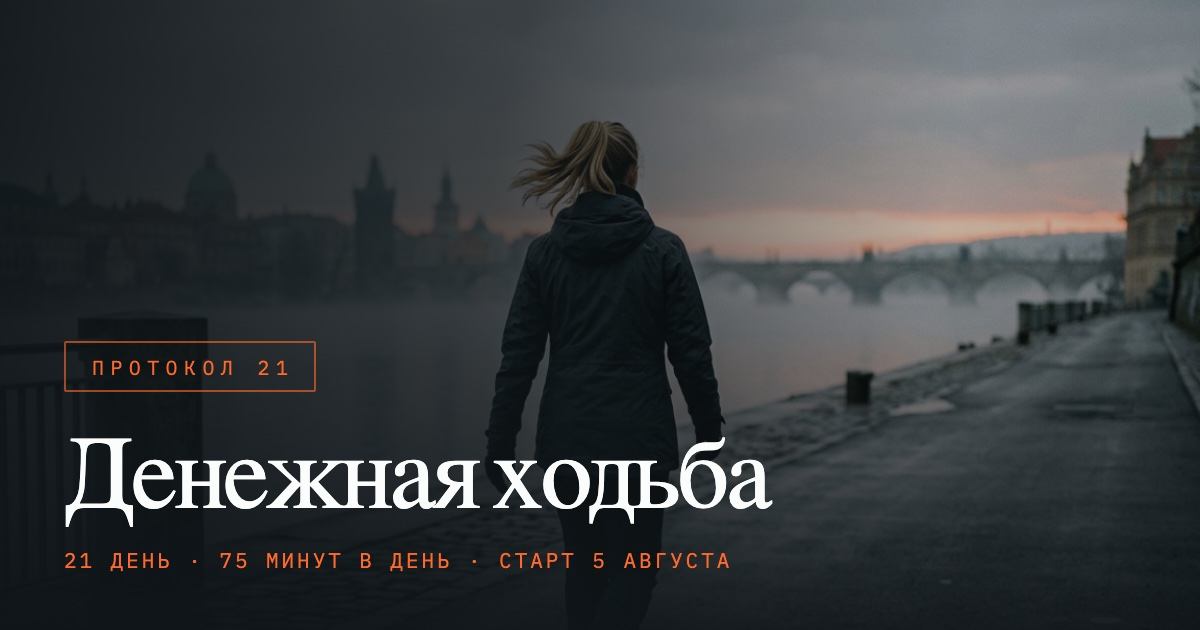
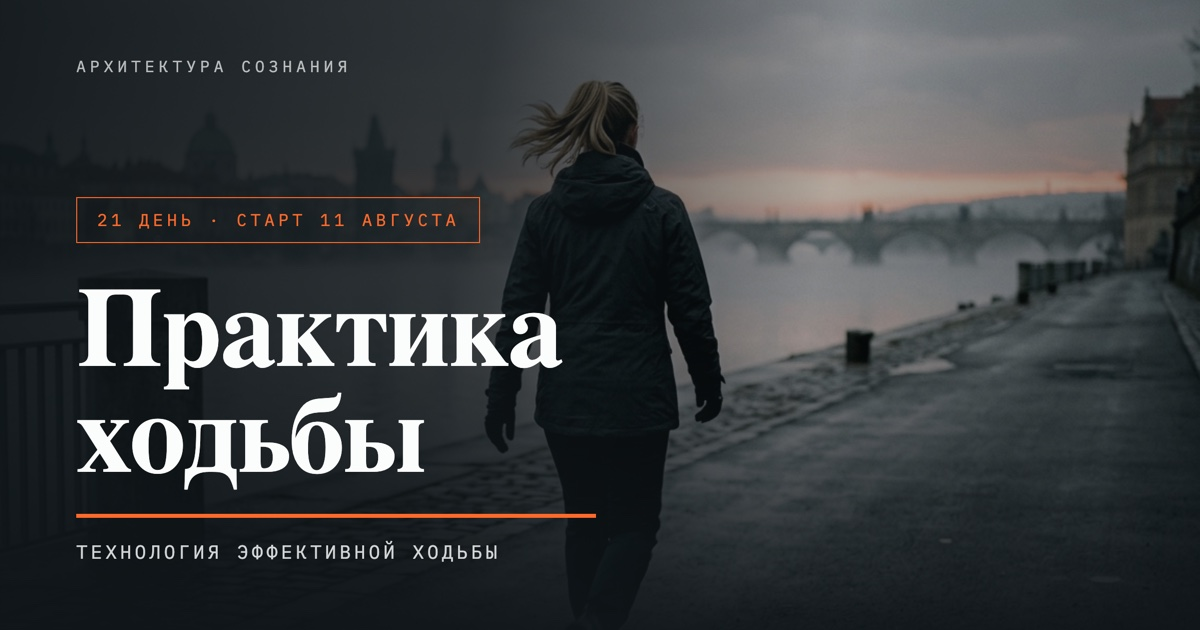
Синхронизация с боевой версией

diff --git a/hodba3/index.html b/hodba3/index.html
@@ -8,9 +8,13 @@
 <meta property="og:type" content="website">
 <meta property="og:title" content="Практика ходьбы · 21 день">
 <meta property="og:description" content="21 день по технологии эффективной ходьбы. Наука с именами, замеры до и после, работа с мозгом на ходу. Старт 11 августа.">
-<meta property="og:image" content="https://thebodymindcode.github.io/soznanie/hodba3/images/og.jpg">
-<meta property="og:url" content="https://thebodymindcode.github.io/soznanie/hodba3/">
+<meta property="og:image" content="https://thebodymindcode.github.io/praktika/images/og.jpg?v=2">
+<meta property="og:image:width" content="1200">
+<meta property="og:image:height" content="630">
+<meta property="og:url" content="https://thebodymindcode.github.io/praktika/">
+<meta property="og:site_name" content="Архитектура сознания">
 <meta name="twitter:card" content="summary_large_image">
+<meta name="twitter:image" content="https://thebodymindcode.github.io/praktika/images/og.jpg?v=2">
 <link rel="icon" type="image/svg+xml" href="favicon.svg">
 <link rel="apple-touch-icon" href="apple-touch-icon.png">
 <link rel="preconnect" href="https://fonts.googleapis.com">
@@ -1339,10 +1343,6 @@ footer span{font-family:var(--f-mono);font-size:12px;letter-spacing:.12em;text-t
     </div>
   </div>
 </section>
-
-<div class="note">
-  <div class="wrap"><p>Макет страницы. Тексты черновые, цифры и источники настоящие. Финальный текст проходит словесника, редактора и детектор, цена и кнопка оплаты подключаются после решения по условиям.</p></div>
-</div>
 
 <footer>
   <div class="wrap fcols">
